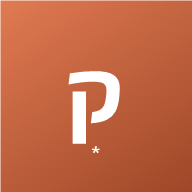
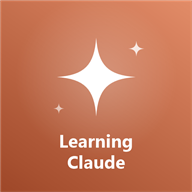
עיצוב מחדש של האייקון ומסך הפתיחה
סמל ניצוץ מקורי בגווני האלמוג עם הכיתוב Learning Claude,
במקום האות ק. מסך הפתיחה תואם, וגרסת המטמון עודכנה ל-v4.

diff --git a/index.html b/index.html
@@ -57,8 +57,9 @@ body.has-voice #app{padding-bottom:calc(160px + env(safe-area-inset-bottom))}
   display:flex;flex-direction:column;align-items:center;justify-content:center;color:#fff;padding:32px;text-align:center}
 #splash.hide{animation:splashOut .5s ease forwards}
 @keyframes splashOut{to{opacity:0;visibility:hidden}}
-#splash .logo{width:96px;height:96px;border-radius:28px;background:rgba(255,255,255,.2);display:flex;align-items:center;
-  justify-content:center;font-size:52px;font-weight:800;margin-bottom:22px;animation:pop .6s cubic-bezier(.2,1.4,.4,1)}
+#splash .logo{width:112px;height:112px;margin-bottom:18px;animation:pop .6s cubic-bezier(.2,1.4,.4,1)}
+#splash .logo svg{width:100%;height:100%;filter:drop-shadow(0 4px 18px rgba(0,0,0,.22))}
+#splash .wordmark{font-size:13.5px;font-weight:800;letter-spacing:3.5px;opacity:.85;margin-bottom:6px;text-transform:uppercase}
 @keyframes pop{from{transform:scale(.5);opacity:0}to{transform:scale(1);opacity:1}}
 #splash h1{font-size:30px;margin-bottom:8px}
 #splash p{opacity:.9;font-size:16px;max-width:340px;margin-bottom:26px;line-height:1.6}
@@ -291,7 +292,12 @@ mark{background:var(--gold-soft);color:inherit;border-radius:3px;padding:0 2px}
 </head>
 <body>
 <div id="splash">
-  <div class="logo">ק</div>
+  <div class="logo" aria-hidden="true"><svg viewBox="0 0 100 100" xmlns="http://www.w3.org/2000/svg">
+    <path fill="#fff" d="M50 8 C53 33 57 39 82 42 C57 45 53 51 50 76 C47 51 43 45 18 42 C43 39 47 33 50 8 Z"/>
+    <path fill="#fff" opacity=".82" d="M83 12 C84.3 22 85.8 24.2 95 25.6 C85.8 27 84.3 29.2 83 39 C81.7 29.2 80.2 27 71 25.6 C80.2 24.2 81.7 22 83 12 Z"/>
+    <path fill="#fff" opacity=".6" d="M20 62 C20.9 68.4 21.9 70 28 71 C21.9 72 20.9 73.6 20 80 C19.1 73.6 18.1 72 12 71 C18.1 70 19.1 68.4 20 62 Z"/>
+  </svg></div>
+  <div class="wordmark">Learning Claude</div>
   <h1>קלוד מאסטר</h1>
   <p>הקורס המקיף בעברית — מאפס מוחלט ועד רמת מומחה בכל יכולות קלוד</p>
   <div class="feats">

diff --git a/src/shell.html b/src/shell.html
@@ -57,8 +57,9 @@ body.has-voice #app{padding-bottom:calc(160px + env(safe-area-inset-bottom))}
   display:flex;flex-direction:column;align-items:center;justify-content:center;color:#fff;padding:32px;text-align:center}
 #splash.hide{animation:splashOut .5s ease forwards}
 @keyframes splashOut{to{opacity:0;visibility:hidden}}
-#splash .logo{width:96px;height:96px;border-radius:28px;background:rgba(255,255,255,.2);display:flex;align-items:center;
-  justify-content:center;font-size:52px;font-weight:800;margin-bottom:22px;animation:pop .6s cubic-bezier(.2,1.4,.4,1)}
+#splash .logo{width:112px;height:112px;margin-bottom:18px;animation:pop .6s cubic-bezier(.2,1.4,.4,1)}
+#splash .logo svg{width:100%;height:100%;filter:drop-shadow(0 4px 18px rgba(0,0,0,.22))}
+#splash .wordmark{font-size:13.5px;font-weight:800;letter-spacing:3.5px;opacity:.85;margin-bottom:6px;text-transform:uppercase}
 @keyframes pop{from{transform:scale(.5);opacity:0}to{transform:scale(1);opacity:1}}
 #splash h1{font-size:30px;margin-bottom:8px}
 #splash p{opacity:.9;font-size:16px;max-width:340px;margin-bottom:26px;line-height:1.6}
@@ -291,7 +292,12 @@ mark{background:var(--gold-soft);color:inherit;border-radius:3px;padding:0 2px}
 </head>
 <body>
 <div id="splash">
-  <div class="logo">ק</div>
+  <div class="logo" aria-hidden="true"><svg viewBox="0 0 100 100" xmlns="http://www.w3.org/2000/svg">
+    <path fill="#fff" d="M50 8 C53 33 57 39 82 42 C57 45 53 51 50 76 C47 51 43 45 18 42 C43 39 47 33 50 8 Z"/>
+    <path fill="#fff" opacity=".82" d="M83 12 C84.3 22 85.8 24.2 95 25.6 C85.8 27 84.3 29.2 83 39 C81.7 29.2 80.2 27 71 25.6 C80.2 24.2 81.7 22 83 12 Z"/>
+    <path fill="#fff" opacity=".6" d="M20 62 C20.9 68.4 21.9 70 28 71 C21.9 72 20.9 73.6 20 80 C19.1 73.6 18.1 72 12 71 C18.1 70 19.1 68.4 20 62 Z"/>
+  </svg></div>
+  <div class="wordmark">Learning Claude</div>
   <h1>קלוד מאסטר</h1>
   <p>הקורס המקיף בעברית — מאפס מוחלט ועד רמת מומחה בכל יכולות קלוד</p>
   <div class="feats">

diff --git a/sw.js b/sw.js
@@ -1,4 +1,4 @@
-const CACHE = "claude-master-v3";
+const CACHE = "claude-master-v4";
 const ASSETS = ["./", "./index.html", "./manifest.json", "./icon-192.png", "./icon-512.png"];
 
 // Install: cache app shell, bypassing HTTP cache so updates always land fresh
